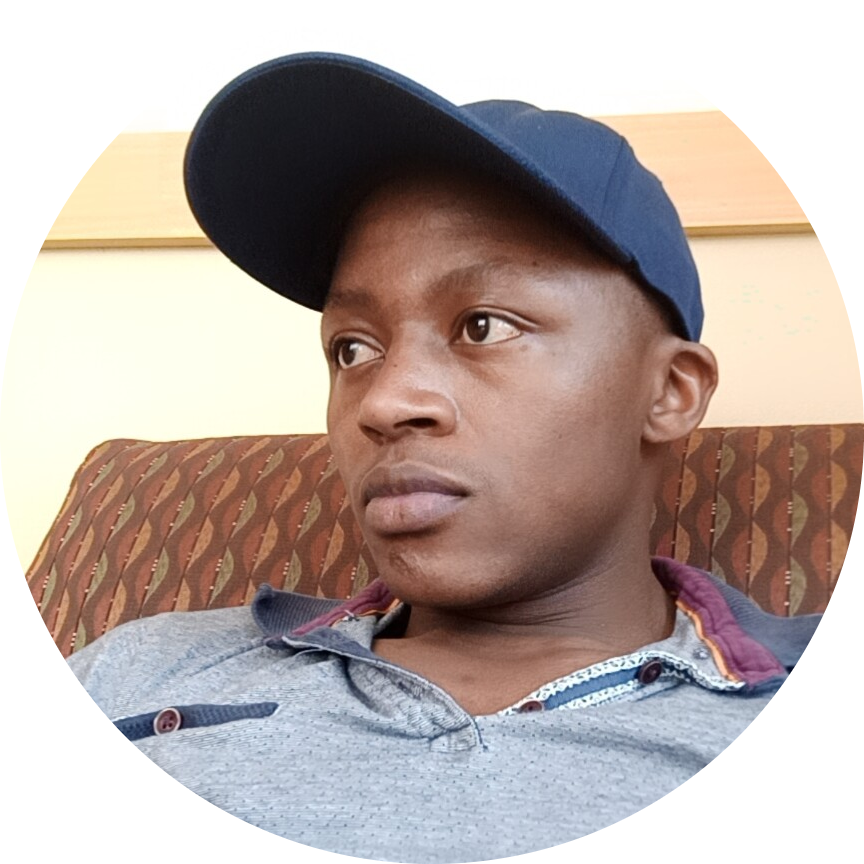
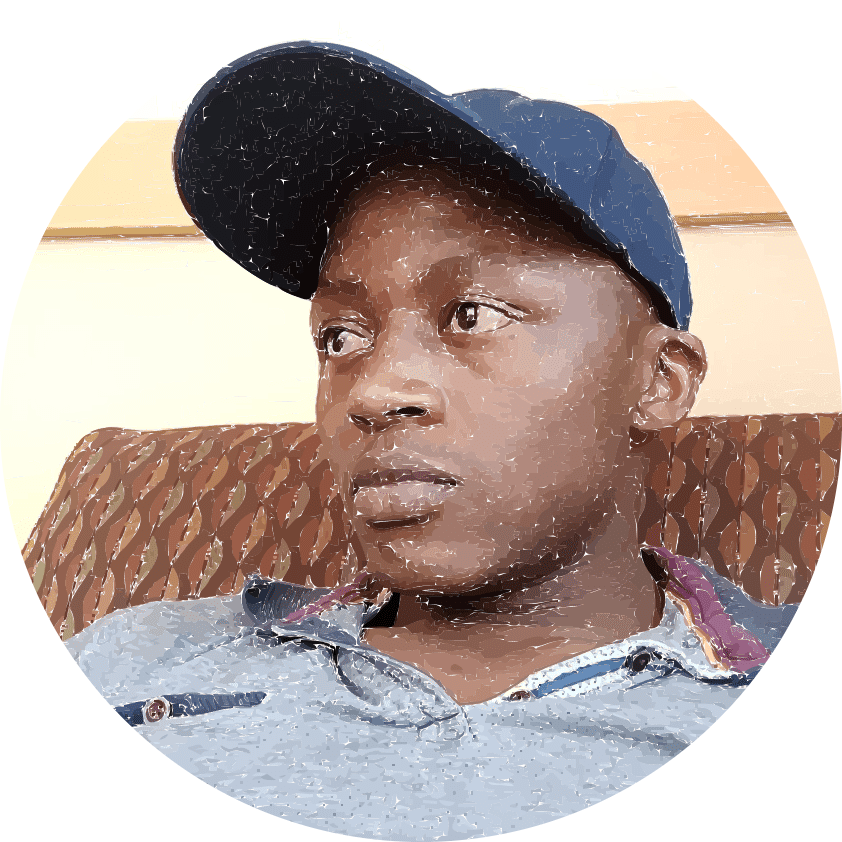
Edited my image

diff --git a/index.html b/index.html
@@ -28,7 +28,7 @@
 
             <div class="middle-container">
               <div class="profile">
-                <img src="angela.png" alt="a picture of me">
+                <img class="profile-image" src="adam.png" alt="a picture of me">
                 <h2>Hello.</h2>
                 <p>I am an iOS an web developer and a computational chemistry Ph.D candidate.</p>
               </div>

diff --git a/styles.css b/styles.css
@@ -37,6 +37,10 @@ h3 {
   top: 50px;
 }
 
+.profile-image {
+  width: 30%;
+}
+
 /*###################MIDDLE CONTAINER#############################*/
 
 .middle-container {
